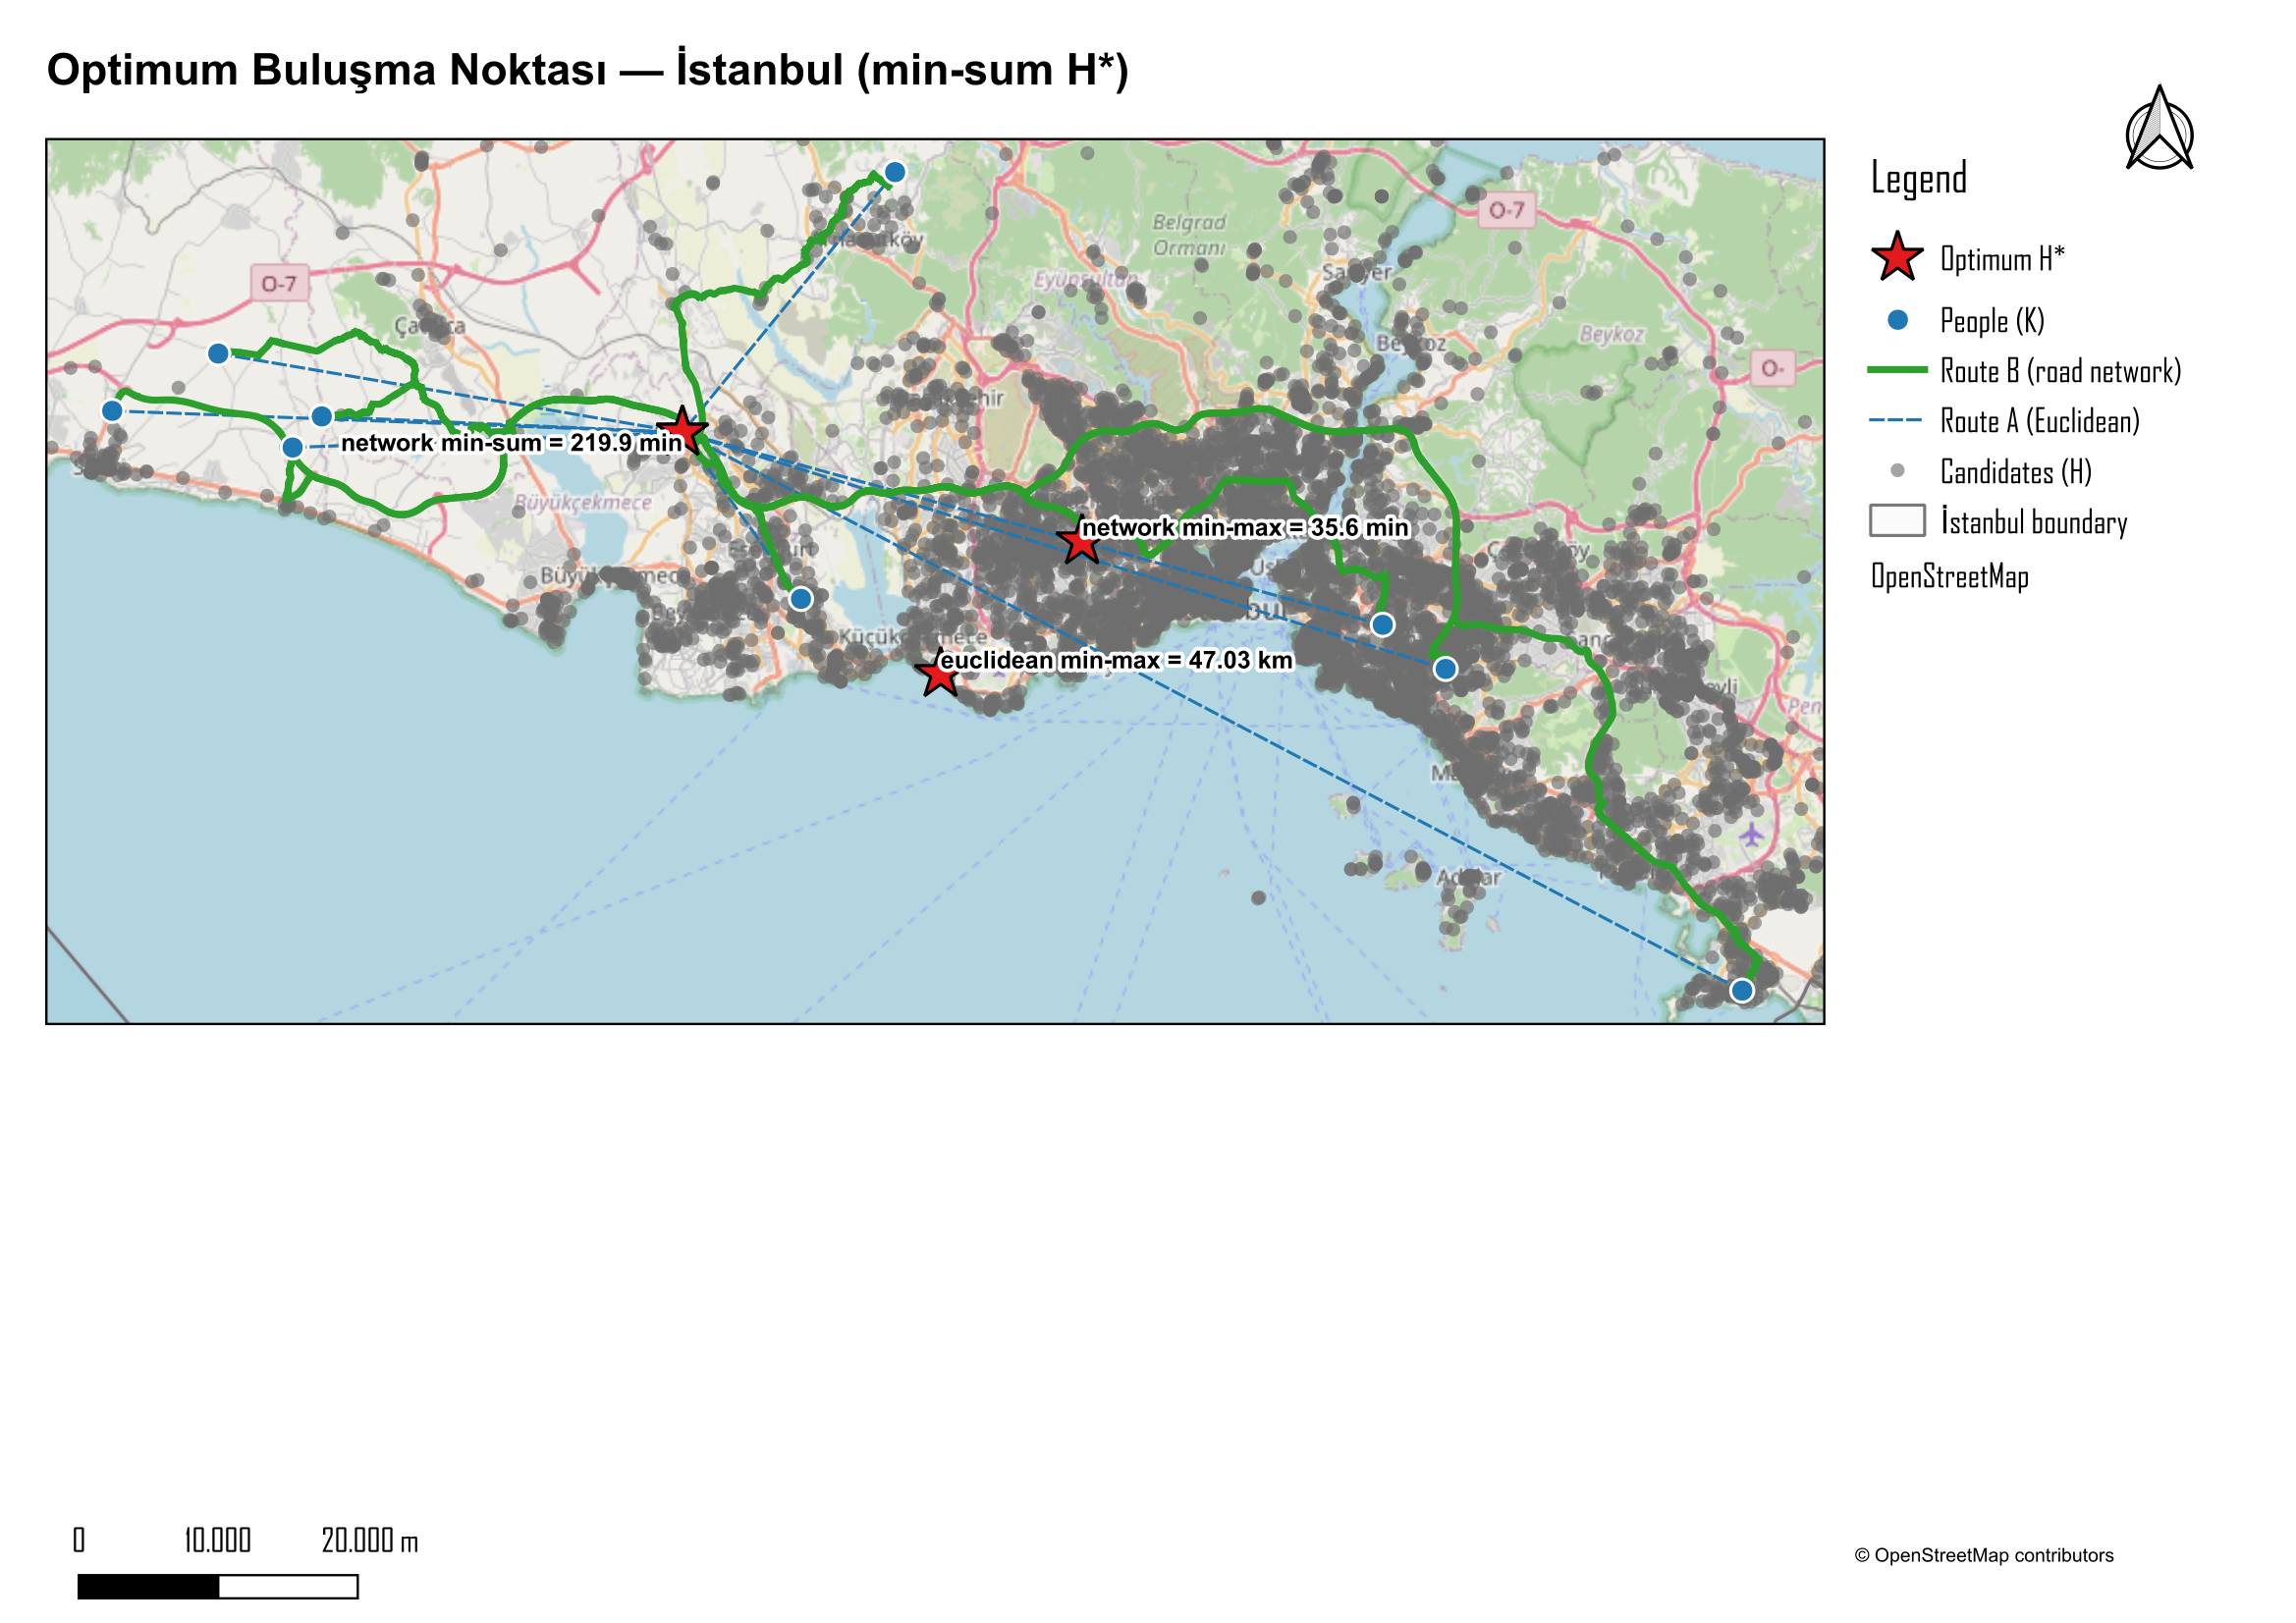
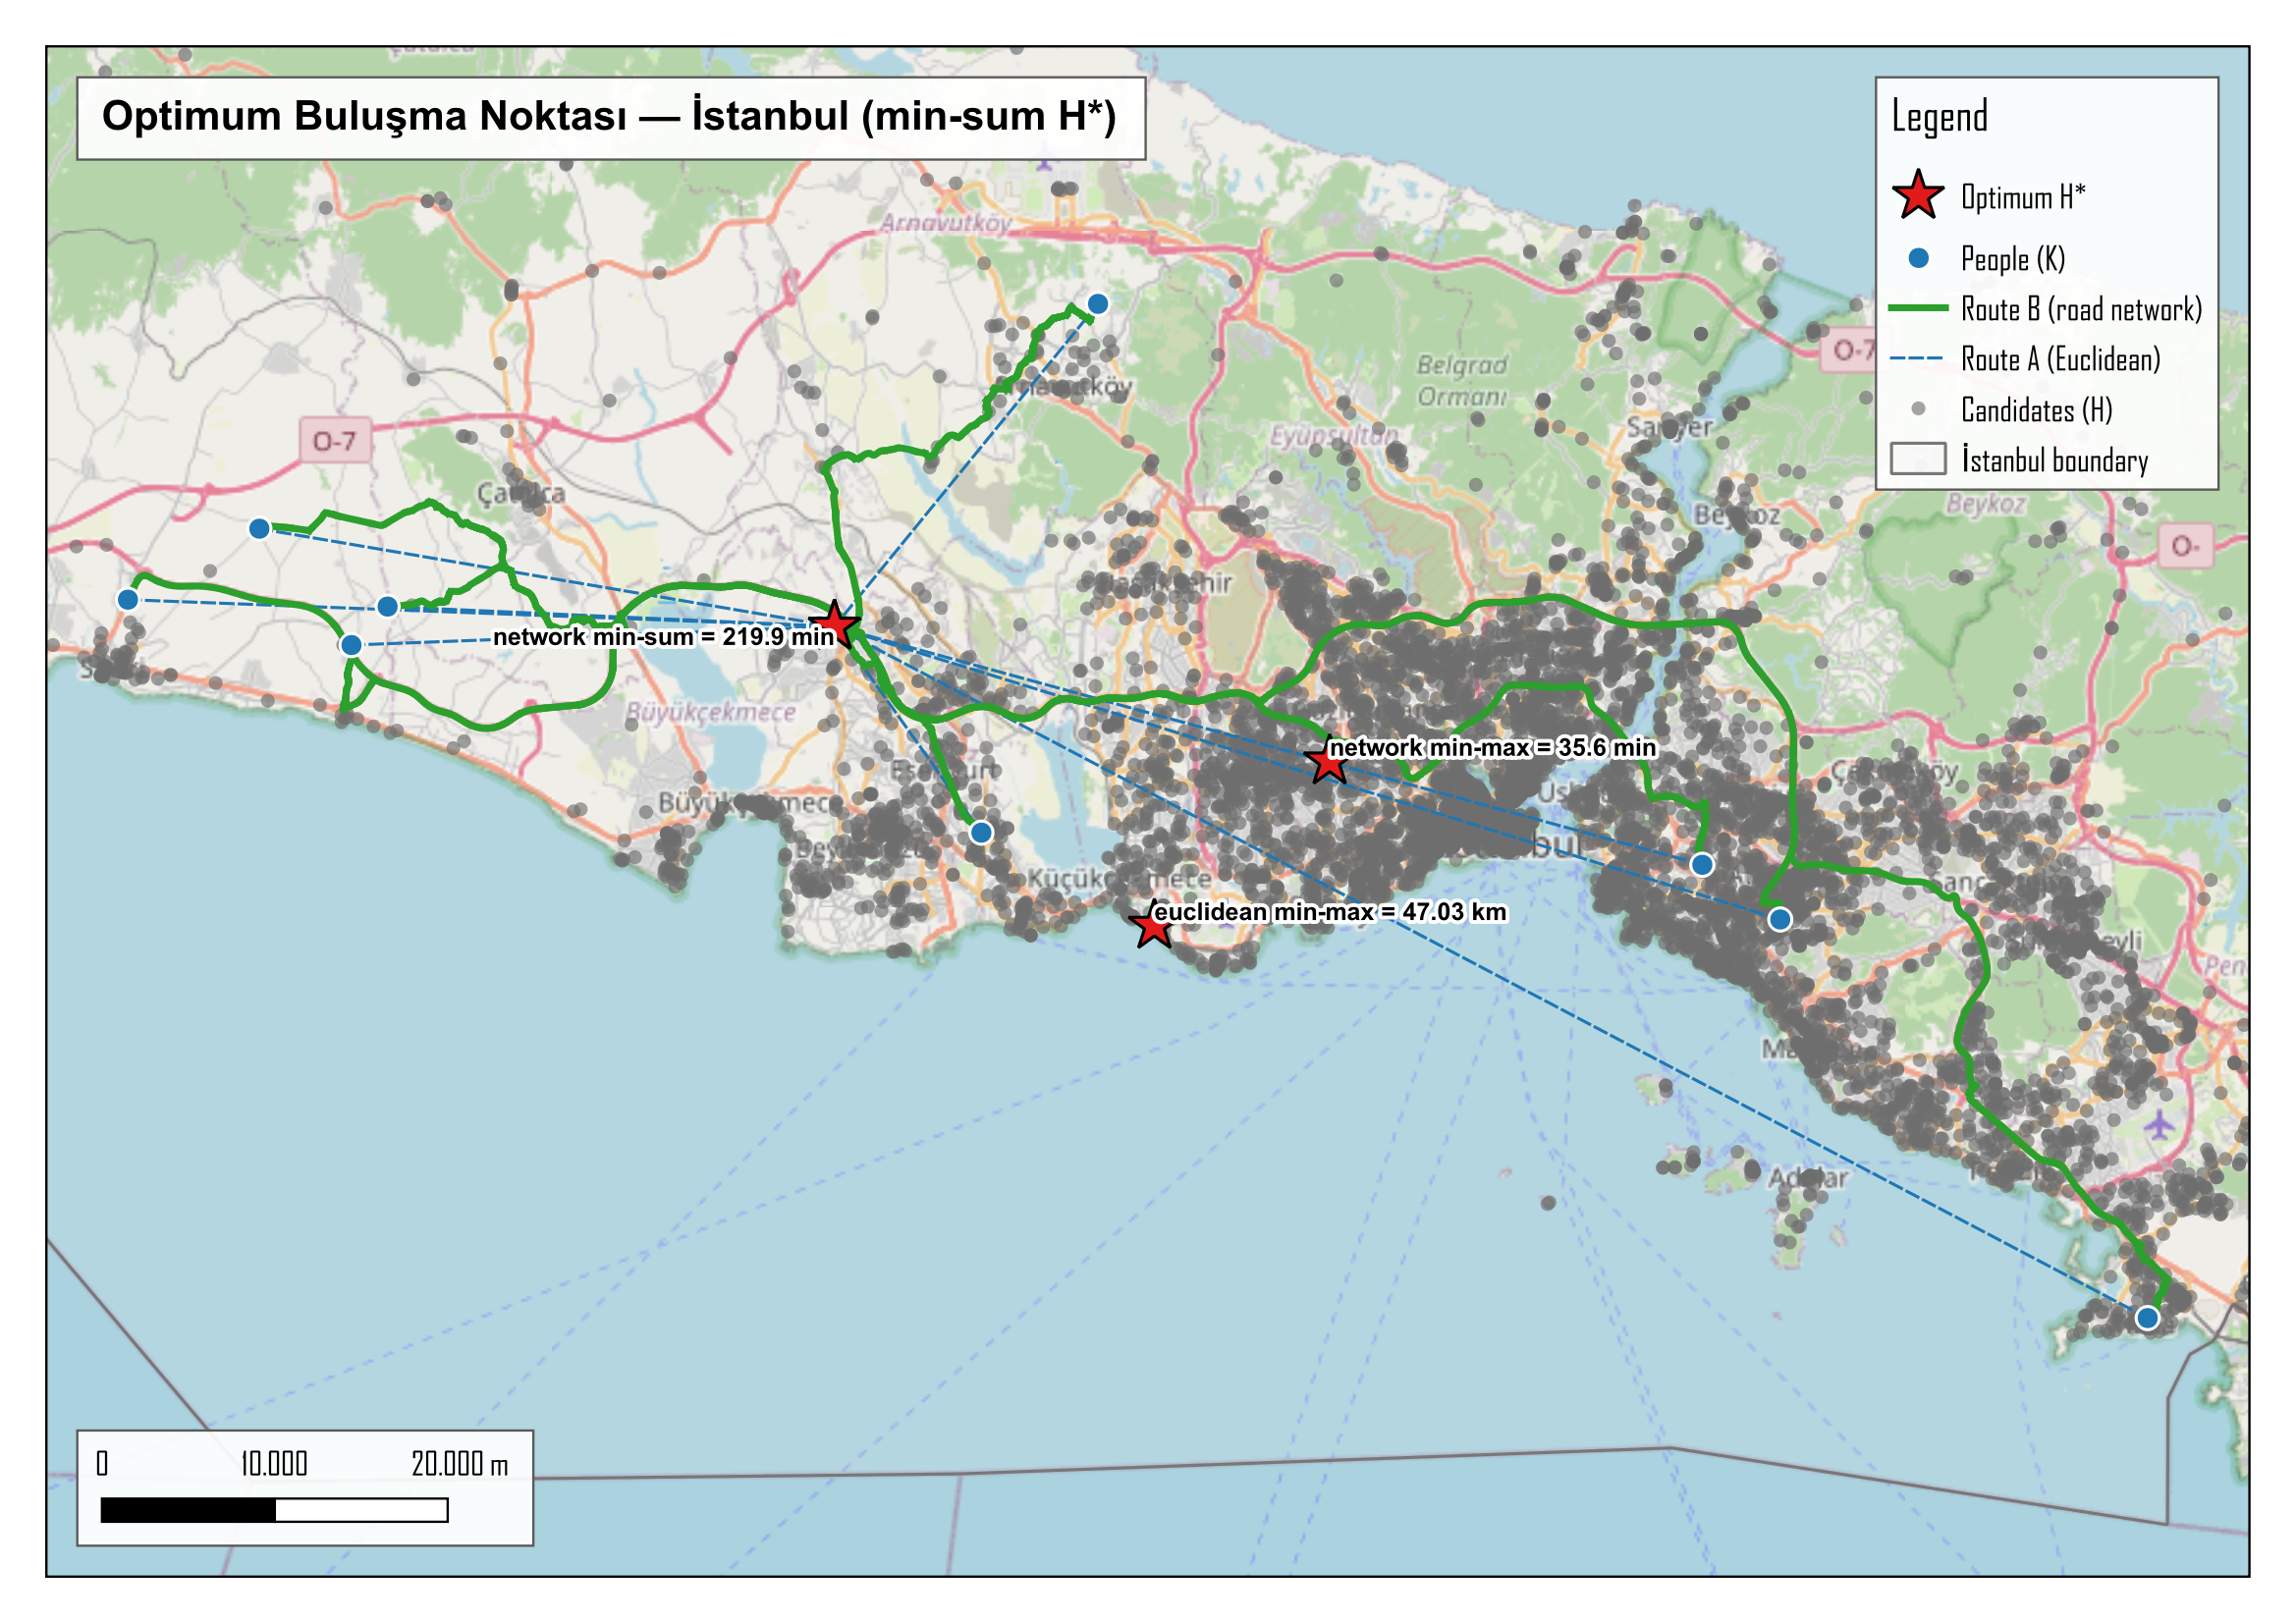
Redesign QGIS map layout

diff --git a/qgis/build_project.py b/qgis/build_project.py
@@ -122,9 +122,13 @@ def add_picture_northarrow(layout):
         if os.path.exists(svg):
             pic = QgsLayoutItemPicture(layout)
             pic.setPicturePath(svg)
+            pic.setBackgroundEnabled(True)
+            pic.setBackgroundColor(QColor(255, 255, 255, 235))
+            pic.setFrameEnabled(True)
+            pic.setFrameStrokeColor(QColor(90, 90, 90))
             layout.addLayoutItem(pic)
-            pic.attemptResize(QgsLayoutSize(14, 14, MM))
-            pic.attemptMove(QgsLayoutPoint(275, 8, MM))
+            pic.attemptResize(QgsLayoutSize(15, 15, MM))
+            pic.attemptMove(QgsLayoutPoint(276, 187, MM))   # floating bottom-right
             return True
     print("  (no north-arrow SVG found; skipping)")
     return False
@@ -190,44 +194,75 @@ def main():
     page = layout.pageCollection().pages()[0]
     page.setPageSize("A4", QgsLayoutItemPage.Landscape)
 
+    # Full-bleed map: the map fills the whole A4 page (small margin), and the title,
+    # legend, scale bar and north arrow float on top of it inside framed white boxes.
+    # The data is wide-but-short, so a tight frame would leave white bands on the page;
+    # filling the page keeps map content (basemap/sea) edge-to-edge with no blank areas.
+    PAGE_W, PAGE_H = 297.0, 210.0
+    MARGIN = 6.0
+    ext = combined_extent_3857([persons, route_b, optimum], crs3857)
+
     map_item = QgsLayoutItemMap(layout)
-    map_item.attemptMove(QgsLayoutPoint(6, 18, MM))
-    map_item.attemptResize(QgsLayoutSize(230, 186, MM))
+    map_item.attemptMove(QgsLayoutPoint(MARGIN, MARGIN, MM))
+    map_item.attemptResize(QgsLayoutSize(PAGE_W - 2 * MARGIN, PAGE_H - 2 * MARGIN, MM))
     map_item.setCrs(crs3857)
     map_item.setLayers(ordered)
-    map_item.setExtent(combined_extent_3857([persons, route_b, optimum], crs3857))
+    # zoomToExtent (NOT setExtent) keeps the item's full-page size and expands the view to
+    # fill it. setExtent would resize the item down to the data's wide aspect ratio, which
+    # is what left white bands on the page.
+    map_item.zoomToExtent(ext)
     map_item.setFrameEnabled(True)
     layout.addLayoutItem(map_item)
 
+    def boxed(item):
+        """Give a floating layout item a white panel + thin frame so it reads cleanly
+        over the map."""
+        item.setBackgroundEnabled(True)
+        item.setBackgroundColor(QColor(255, 255, 255, 235))
+        item.setFrameEnabled(True)
+        item.setFrameStrokeColor(QColor(90, 90, 90))
+
+    # ----- Title (floating top-left) -----
     title = QgsLayoutItemLabel(layout)
     title.setText("Optimum Buluşma Noktası — İstanbul (min-sum H*)")
-    title.setFont(QFont("Arial", 16, QFont.Weight.Bold))
+    title.setFont(QFont("Arial", 15, QFont.Weight.Bold))
+    title.setMarginX(3)
+    title.setMarginY(2)
+    boxed(title)
     title.adjustSizeToText()
     layout.addLayoutItem(title)
-    title.attemptMove(QgsLayoutPoint(6, 6, MM))
+    title.attemptMove(QgsLayoutPoint(MARGIN + 4, MARGIN + 4, MM))
 
+    # ----- Legend (floating top-right) -----
     legend = QgsLayoutItemLegend(layout)
     legend.setTitle("Legend")
     legend.setLinkedMap(map_item)
-    legend.setAutoUpdateModel(True)
     layout.addLayoutItem(legend)
-    legend.attemptMove(QgsLayoutPoint(240, 18, MM))
+    # Don't auto-list every map layer: freeze the model, then drop the OSM basemap
+    # node so "OpenStreetMap" no longer appears as a legend entry.
+    legend.setAutoUpdateModel(False)
+    if osm is not None:
+        root = legend.model().rootGroup()
+        node = root.findLayer(osm.id())
+        if node is not None:
+            root.removeChildNode(node)
+    boxed(legend)
+    legend.adjustBoxSize()
+    # Anchor by the top-right corner so the box grows leftward and never overflows the page,
+    # regardless of how wide the label text is.
+    legend.setReferencePoint(QgsLayoutItem.UpperRight)
+    legend.attemptMove(QgsLayoutPoint(PAGE_W - MARGIN - 4, MARGIN + 4, MM))
 
+    # ----- Scale bar (floating bottom-left) -----
     sb = QgsLayoutItemScaleBar(layout)
     sb.setStyle("Single Box")
     sb.setLinkedMap(map_item)
     sb.applyDefaultSize()
+    sb.setBoxContentSpace(2)
+    boxed(sb)
     layout.addLayoutItem(sb)
-    sb.attemptMove(QgsLayoutPoint(8, 196, MM))
-
-    add_picture_northarrow(layout)
-
-    attr = QgsLayoutItemLabel(layout)
-    attr.setText("© OpenStreetMap contributors")
-    attr.setFont(QFont("Arial", 7))
-    attr.adjustSizeToText()
-    layout.addLayoutItem(attr)
-    attr.attemptMove(QgsLayoutPoint(240, 200, MM))
+    sb_h = sb.sizeWithUnits().height()
+    sb.attemptMove(QgsLayoutPoint(MARGIN + 4, PAGE_H - MARGIN - 4 - sb_h, MM))
 
     layout.refresh()
     project.layoutManager().addLayout(layout)